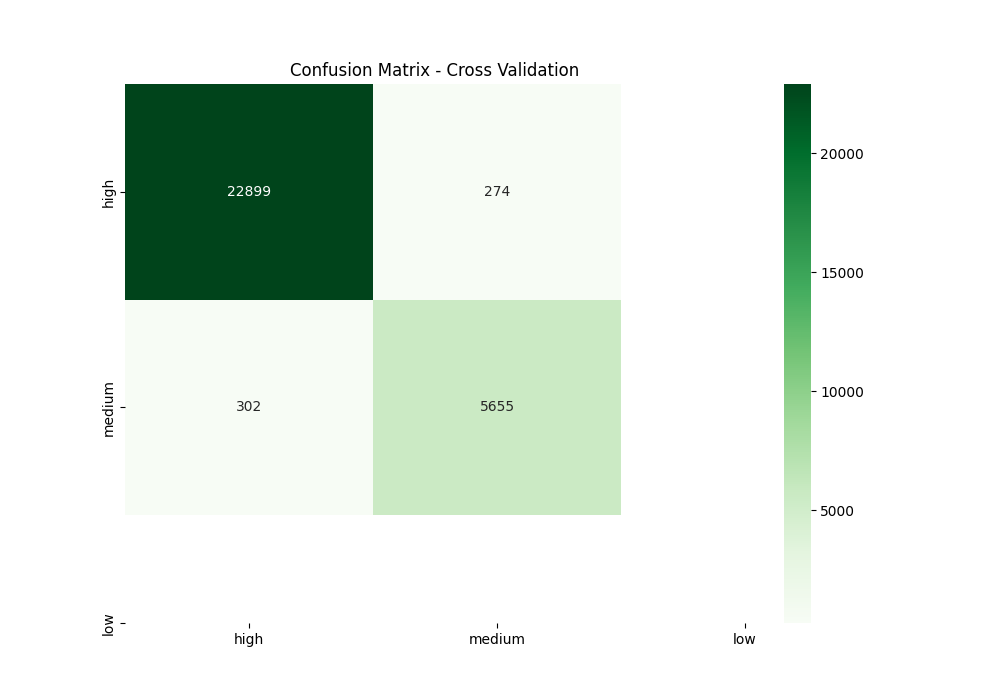
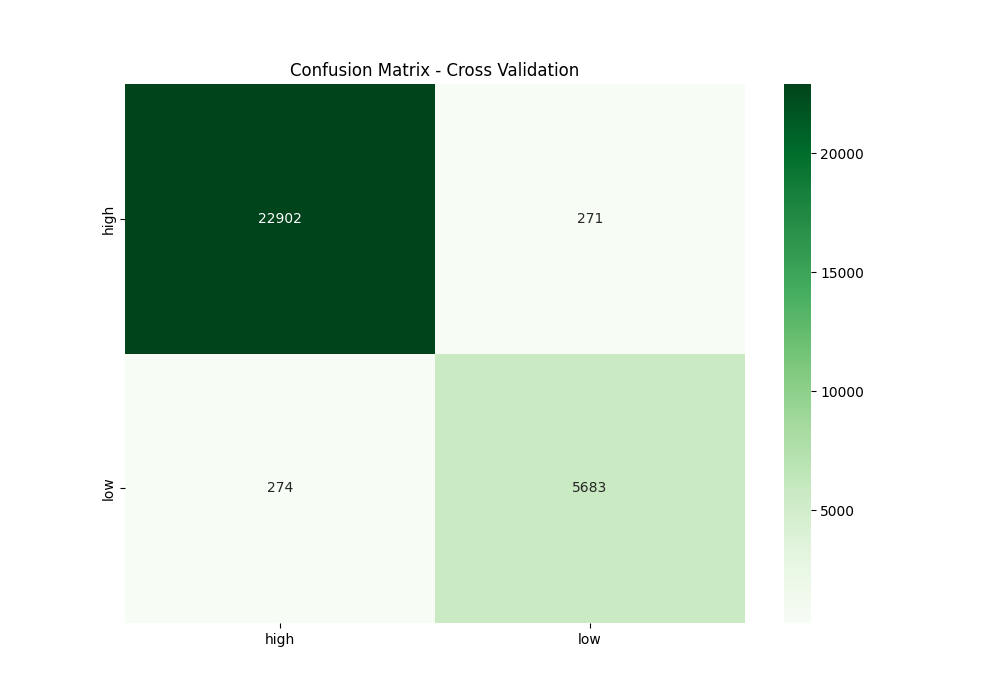
arvores e mais arvores no caso 1

diff --git a/um1.py b/um1.py
@@ -298,25 +298,27 @@ def dashboard_um_console():
     print(f'Davies-Bouldin Score (Silhouette): {davies_bouldin_silhouette}')
     print(f'Davies-Bouldin Score (Elbow): {davies_bouldin_elbow}')
 
-    tree = DecisionTreeClassifier()
-    tree_para = {'criterion':['entropy','gini'],'max_depth':[4,5,6,7,8,9,10,11,12,15,20,30,40,50,70,90,120,150],'min_samples_leaf':[1,2,3,4,5]}
-    grid = GridSearchCV(tree, tree_para,verbose=5, cv=10)
-    grid.fit(X_scaled,kmeans_silhouette.labels_)
-    best_clf = grid.best_estimator_
-    best = best_clf
+    # tree = DecisionTreeClassifier()
+    # tree_para = {'criterion':['entropy','gini'],'max_depth':
+    #              [4,5,6,7,8,9,10,11,12,15,20,30,40,50,70,90,120,150],
+    #              'min_samples_leaf':[1,2,3,4,5]}
+    # grid = GridSearchCV(tree, tree_para,verbose=5, cv=10)
+    # grid.fit(X_scaled,kmeans_silhouette.labels_)
+    # best_clf = grid.best_estimator_
+    # best = best_clf
 
-    # Exibir resultados do GridSearchCV
-    best_params = grid.best_params_
-    best_score = grid.best_score_
+    # # Exibir resultados do GridSearchCV
+    # best_params = grid.best_params_
+    # best_score = grid.best_score_
     
-    print(f'Best parameters found: {best_params}')
-    print(f'Best score found: {best_score}')
+    # print(f'Best parameters found: {best_params}')
+    # print(f'Best score found: {best_score}')
 
     # Criação de conjuntos de treino e teste
     X_train, X_test, y_train, y_test = train_test_split(X_scaled,kmeans_silhouette.labels_,test_size=0.3,random_state=100)
     train = (X_train.shape, y_train.shape) # shape - mostra quantas linhas e colunas foram geradas
     test = (X_test.shape, y_test.shape)
-    tree = DecisionTreeClassifier(criterion='entropy', max_depth=30, min_samples_leaf=1)
+    tree = DecisionTreeClassifier(criterion='entropy', max_depth=70, min_samples_leaf=1)
     tree.fit(X_train,y_train)
     predictions_test = tree.predict(X_test)
     accuracy_test = accuracy_score(y_test,predictions_test)*100
@@ -327,8 +329,8 @@ def dashboard_um_console():
 
     #Test
     cf = confusion_matrix(y_test,predictions_test)
-    lbl1 = ['high', 'medium', 'low']
-    lbl2 = ['high', 'medium', 'low']
+    lbl1 = ['high', 'low']
+    lbl2 = ['high', 'low']
     plt.figure(figsize=(10, 7))
     sns.heatmap(cf, annot=True, cmap="Greens", fmt="d", xticklabels=lbl1, yticklabels=lbl2)
     plt.title("Confusion Matrix - Test")
@@ -343,8 +345,8 @@ def dashboard_um_console():
 
     predictions = cross_val_predict(tree,X_scaled,kmeans_silhouette.labels_,cv=10)
     cf = confusion_matrix(kmeans_silhouette.labels_,predictions)
-    lbl1 = ['high', 'medium', 'low']
-    lbl2 = ['high', 'medium', 'low']
+    lbl1 = ['high', 'low']
+    lbl2 = ['high', 'low']
     plt.figure(figsize=(10, 7))
     sns.heatmap(cf, annot=True, cmap="Greens", fmt="d", xticklabels=lbl1, yticklabels=lbl2)
     plt.title("Confusion Matrix - Cross Validation")
@@ -356,9 +358,31 @@ def dashboard_um_console():
     
     #Gera arvore de decisao
     plt.figure(figsize=(100, 100))
-    plot_tree(tree, filled=True, fontsize=7)
+    plot_tree(tree, filled=True, fontsize=16, proportion=True)
+    plt.subplots_adjust(wspace=0.8, hspace=0.8)
     plt.title("Decision Tree")
     plt.savefig('static/graficos/new/um/df_decision_tree.png')  # Salvando o gráfico
+    plt.close()
+
+    path = tree.cost_complexity_pruning_path(X_train, y_train)
+    ccp_alphas, impurities = path.ccp_alphas, path.impurities
+
+    trees = []
+    for ccp_alpha in ccp_alphas:
+        tree = DecisionTreeClassifier(random_state=42, ccp_alpha=ccp_alpha)
+        tree.fit(X_train, y_train)
+        trees.append(tree)
+
+    train_scores = [tree.score(X_train, y_train) for tree in trees]
+    test_scores = [tree.score(X_test, y_test) for tree in trees]
+
+    best_alpha_index = np.argmax(test_scores)
+    best_tree = trees[best_alpha_index]
+
+    plt.figure(figsize=(40, 30))
+    plot_tree(best_tree, filled=True, fontsize=12, proportion=True)
+    plt.subplots_adjust(wspace=0.8, hspace=0.8)
+    plt.savefig('static/graficos/new/um/df_decision_tree_poda.png')  # Salvando o gráfico
     plt.close()
 
     return "RESULTADO"
